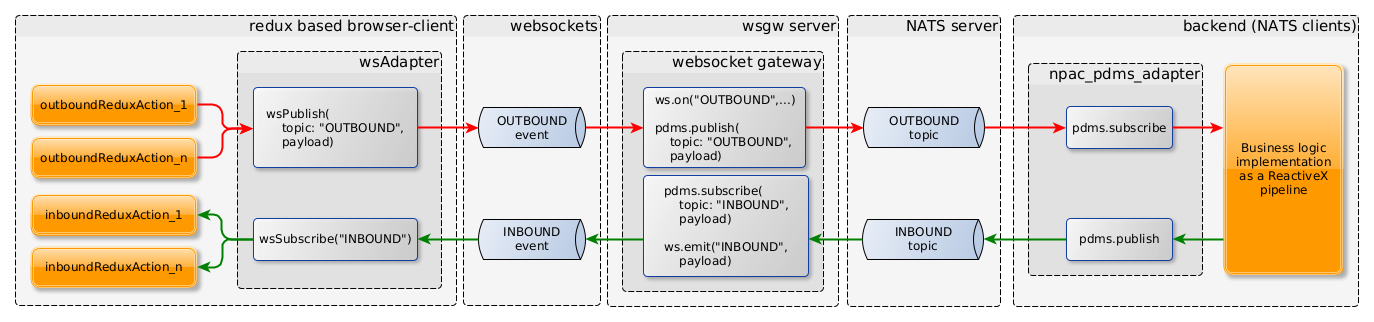
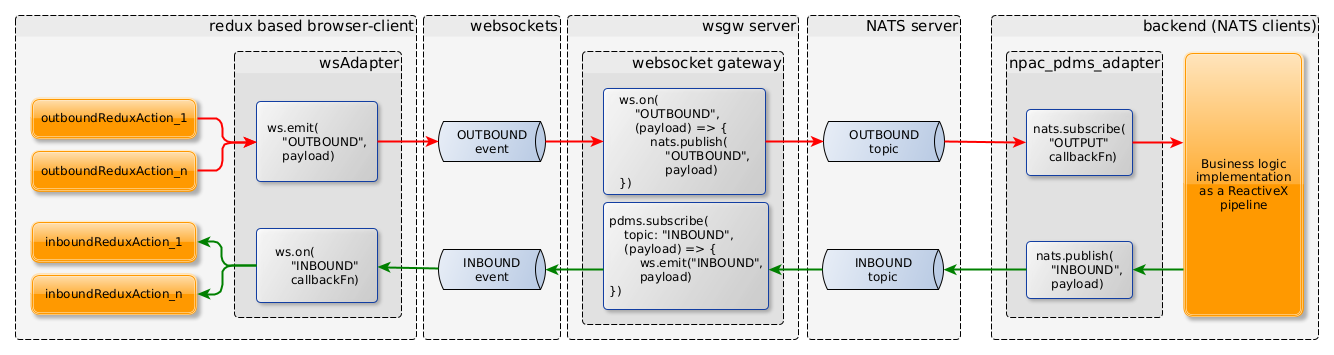
Add text to README

Changed region(s): [[0.0, 0.0311, 1.0, 0.9627]]

diff --git a/README.md b/README.md
@@ -11,17 +11,29 @@ that uses messaging to communicate with each other.
 
 It makes possible the passing of messages among websocket clients and/or NATS clients.
 
+### Events vs. topics
+
+The WebSocket uses event handlers to manage the receiving and sending of messages.
+The websocket clients can subscribe to event names, that they observe, and act in case an incoming message arrives.
+
+The messaging middlewares typically use the topic to name the channels through which the messages are transferred.
+
+The messages can be forwarded back-and-forth between websocket event channels and messaging topics
+using their names to associate them. 
+
+### Typical use-cases
+
 The typical use-cases are demonstrated by the following figure:
 
 ![The overview of the message flow of a complete WS-NATS messaging system](docs/messageflow_overview.png)
 
 __Important Note:__
-In the followings we will use the terms of inbound and outbound topics.
-It refers to the grouping of event channels and topics to which the messages will be send of received from.
-__They meant to be inbound and outbound from the viewpoint of the websocket client (or UI frontend application).__
+In the followings we will use the terms of inbound and outbound message channels.
+It refers to the grouping of event channels to which the messages will be send or received from by the websocket client.
+So They meant to be __inbound and outbound from the viewpoint of the websocket client__ (or UI frontend application).
 
 The functioning of the websocket gateway is quite simple:
-1. We can define the list of inbound and outbound event channel names.
+1. We define the list of inbound and outbound event channel names.
 2. The gateway will forward the messages coming in the outbound event channels to the NATS topics with the same name.
 3. The gateway will also forward the messages coming in the NATS topics toward the inbound event channels.
 
@@ -66,11 +78,6 @@ For example you can implement a backend service, which is a sensor event consume
 that preprocesses and forwards the measured values toward frontend applications that visualize them.
 At the same time you can control the backend by sending command messages via the `wsgw` as a message producer client.
 
-### Events vs. topics
-
-The WebSocket uses event handlers to manage the receiving and sending of messages.
-The clients can subscribe to event names, that they observe, and act in case an incoming message arrives.
-
 ## Installation
 
 Run the install command:
@@ -81,7 +88,10 @@ Check if `wsgw` is properly installed:
 
     $ wsgw --help
 
+__Note:__ In order to use the `wsgw`, you also need to have a running [NATS server](https://nats.io/).
+
 ## Usage
+
 ### Overview of the application commands
 
 ```bash
